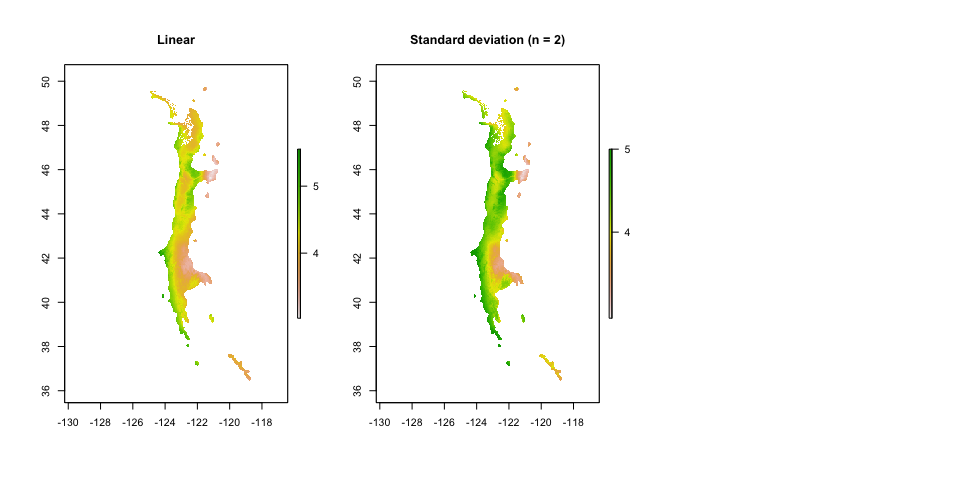
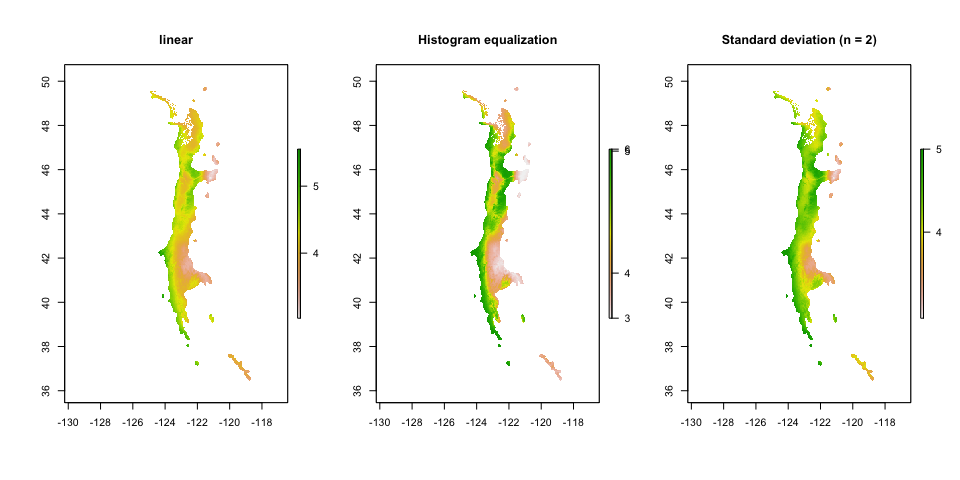
Corrected stretchPlot argument.

diff --git a/README.md b/README.md
@@ -228,8 +228,8 @@ The `stretchPlot` function provides a simple way to adjust the contrast of plots
 ``` r
 sm <- sensitivity_map(mod.cnfa)
 par(mfrow = c(1, 3), oma = c(1,1,1,1))
-stretchPlot(sm, main = "Linear")
-stretchPlot(sm, type = "stretch", main = "Histogram equalization")
+stretchPlot(sm, main = "linear")
+stretchPlot(sm, type = "hist.equal", main = "Histogram equalization")
 stretchPlot(sm, type = "sd", n = 2, main = "Standard deviation (n = 2)")
 ```
 
